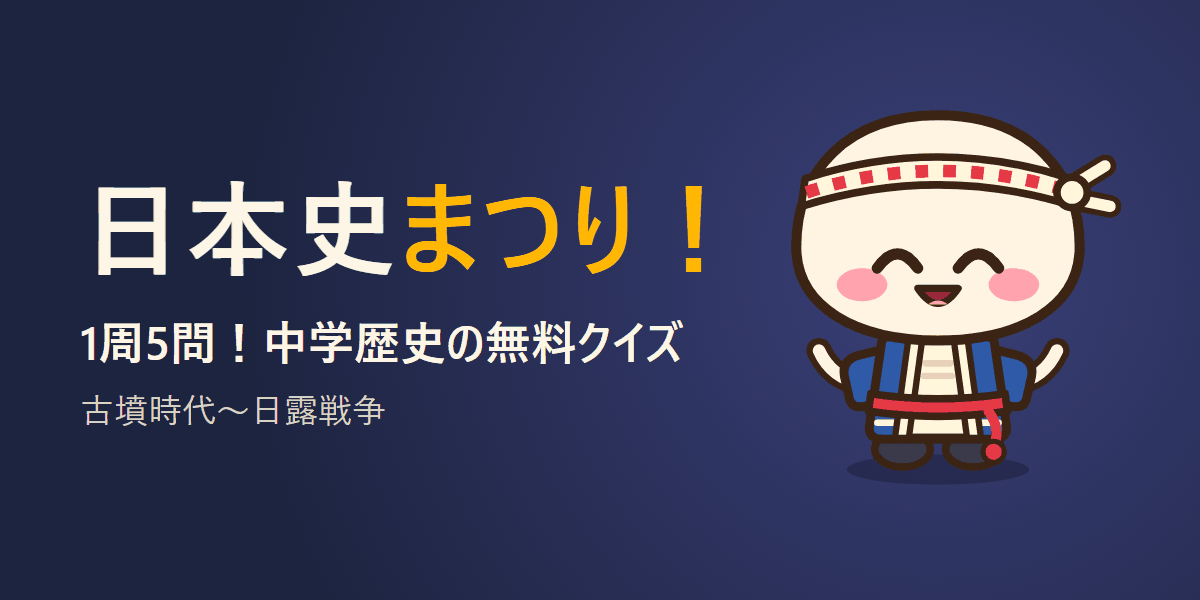
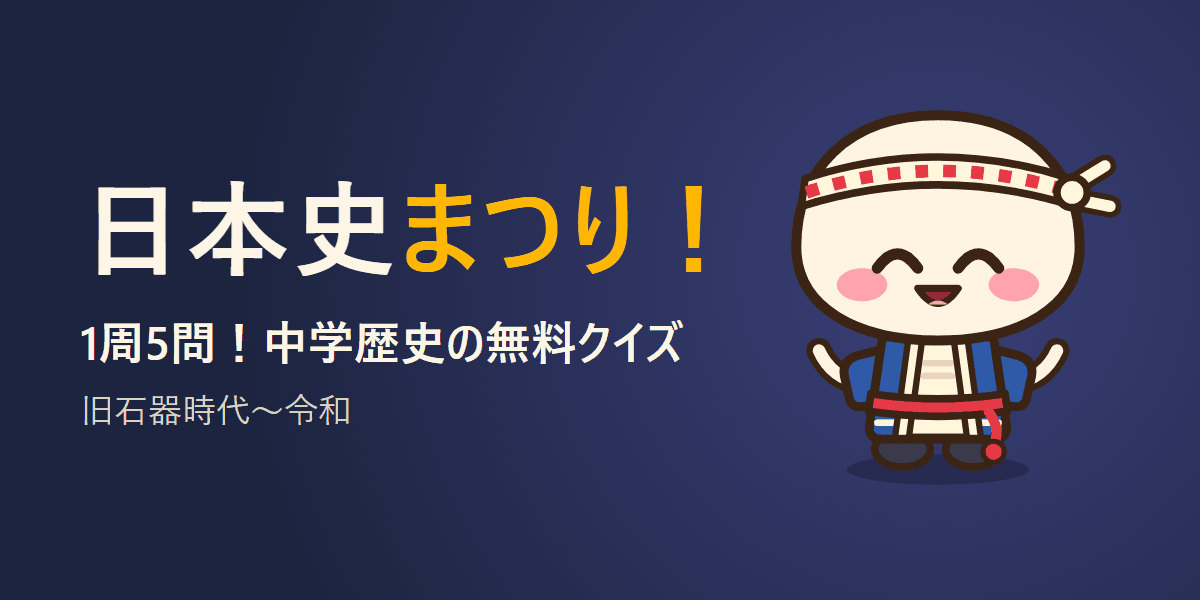
v42：紹介の文とリンクカードの範囲を「旧石器時代〜令和」に

Changed region(s): [[0.0617, 0.66, 0.3392, 0.72]]

diff --git a/index.html b/index.html
@@ -19,7 +19,7 @@
   <meta property="og:image" content="https://twosee-apps.github.io/rekishi-dopa-app/img/og.png">
   <meta property="og:image:width" content="1200">
   <meta property="og:image:height" content="600">
-  <meta property="og:image:alt" content="日本史まつり！ 1周5問！中学歴史の無料クイズ。古墳時代〜日露戦争。ハチマキとハッピを着たマスコットのハッピー">
+  <meta property="og:image:alt" content="日本史まつり！ 1周5問！中学歴史の無料クイズ。旧石器時代〜令和。ハチマキとハッピを着たマスコットのハッピー">
   <meta name="twitter:card" content="summary_large_image">
   <link rel="stylesheet" href="style.css">
 </head>

diff --git a/sw.js b/sw.js
@@ -2,7 +2,7 @@
 // app/ の中のファイルだけをキャッシュする。外部（ほかのサイト）へのリクエストには一切さわらない。
 // ファイルを足したら ASSETS に足し、内容を変えて公開するときは VERSION を上げる（tests/pwa.test.js で検査）。
 
-const VERSION = 'v41';
+const VERSION = 'v42';
 const CACHE = `rekishi-dopa-${VERSION}`;
 
 const ASSETS = [
